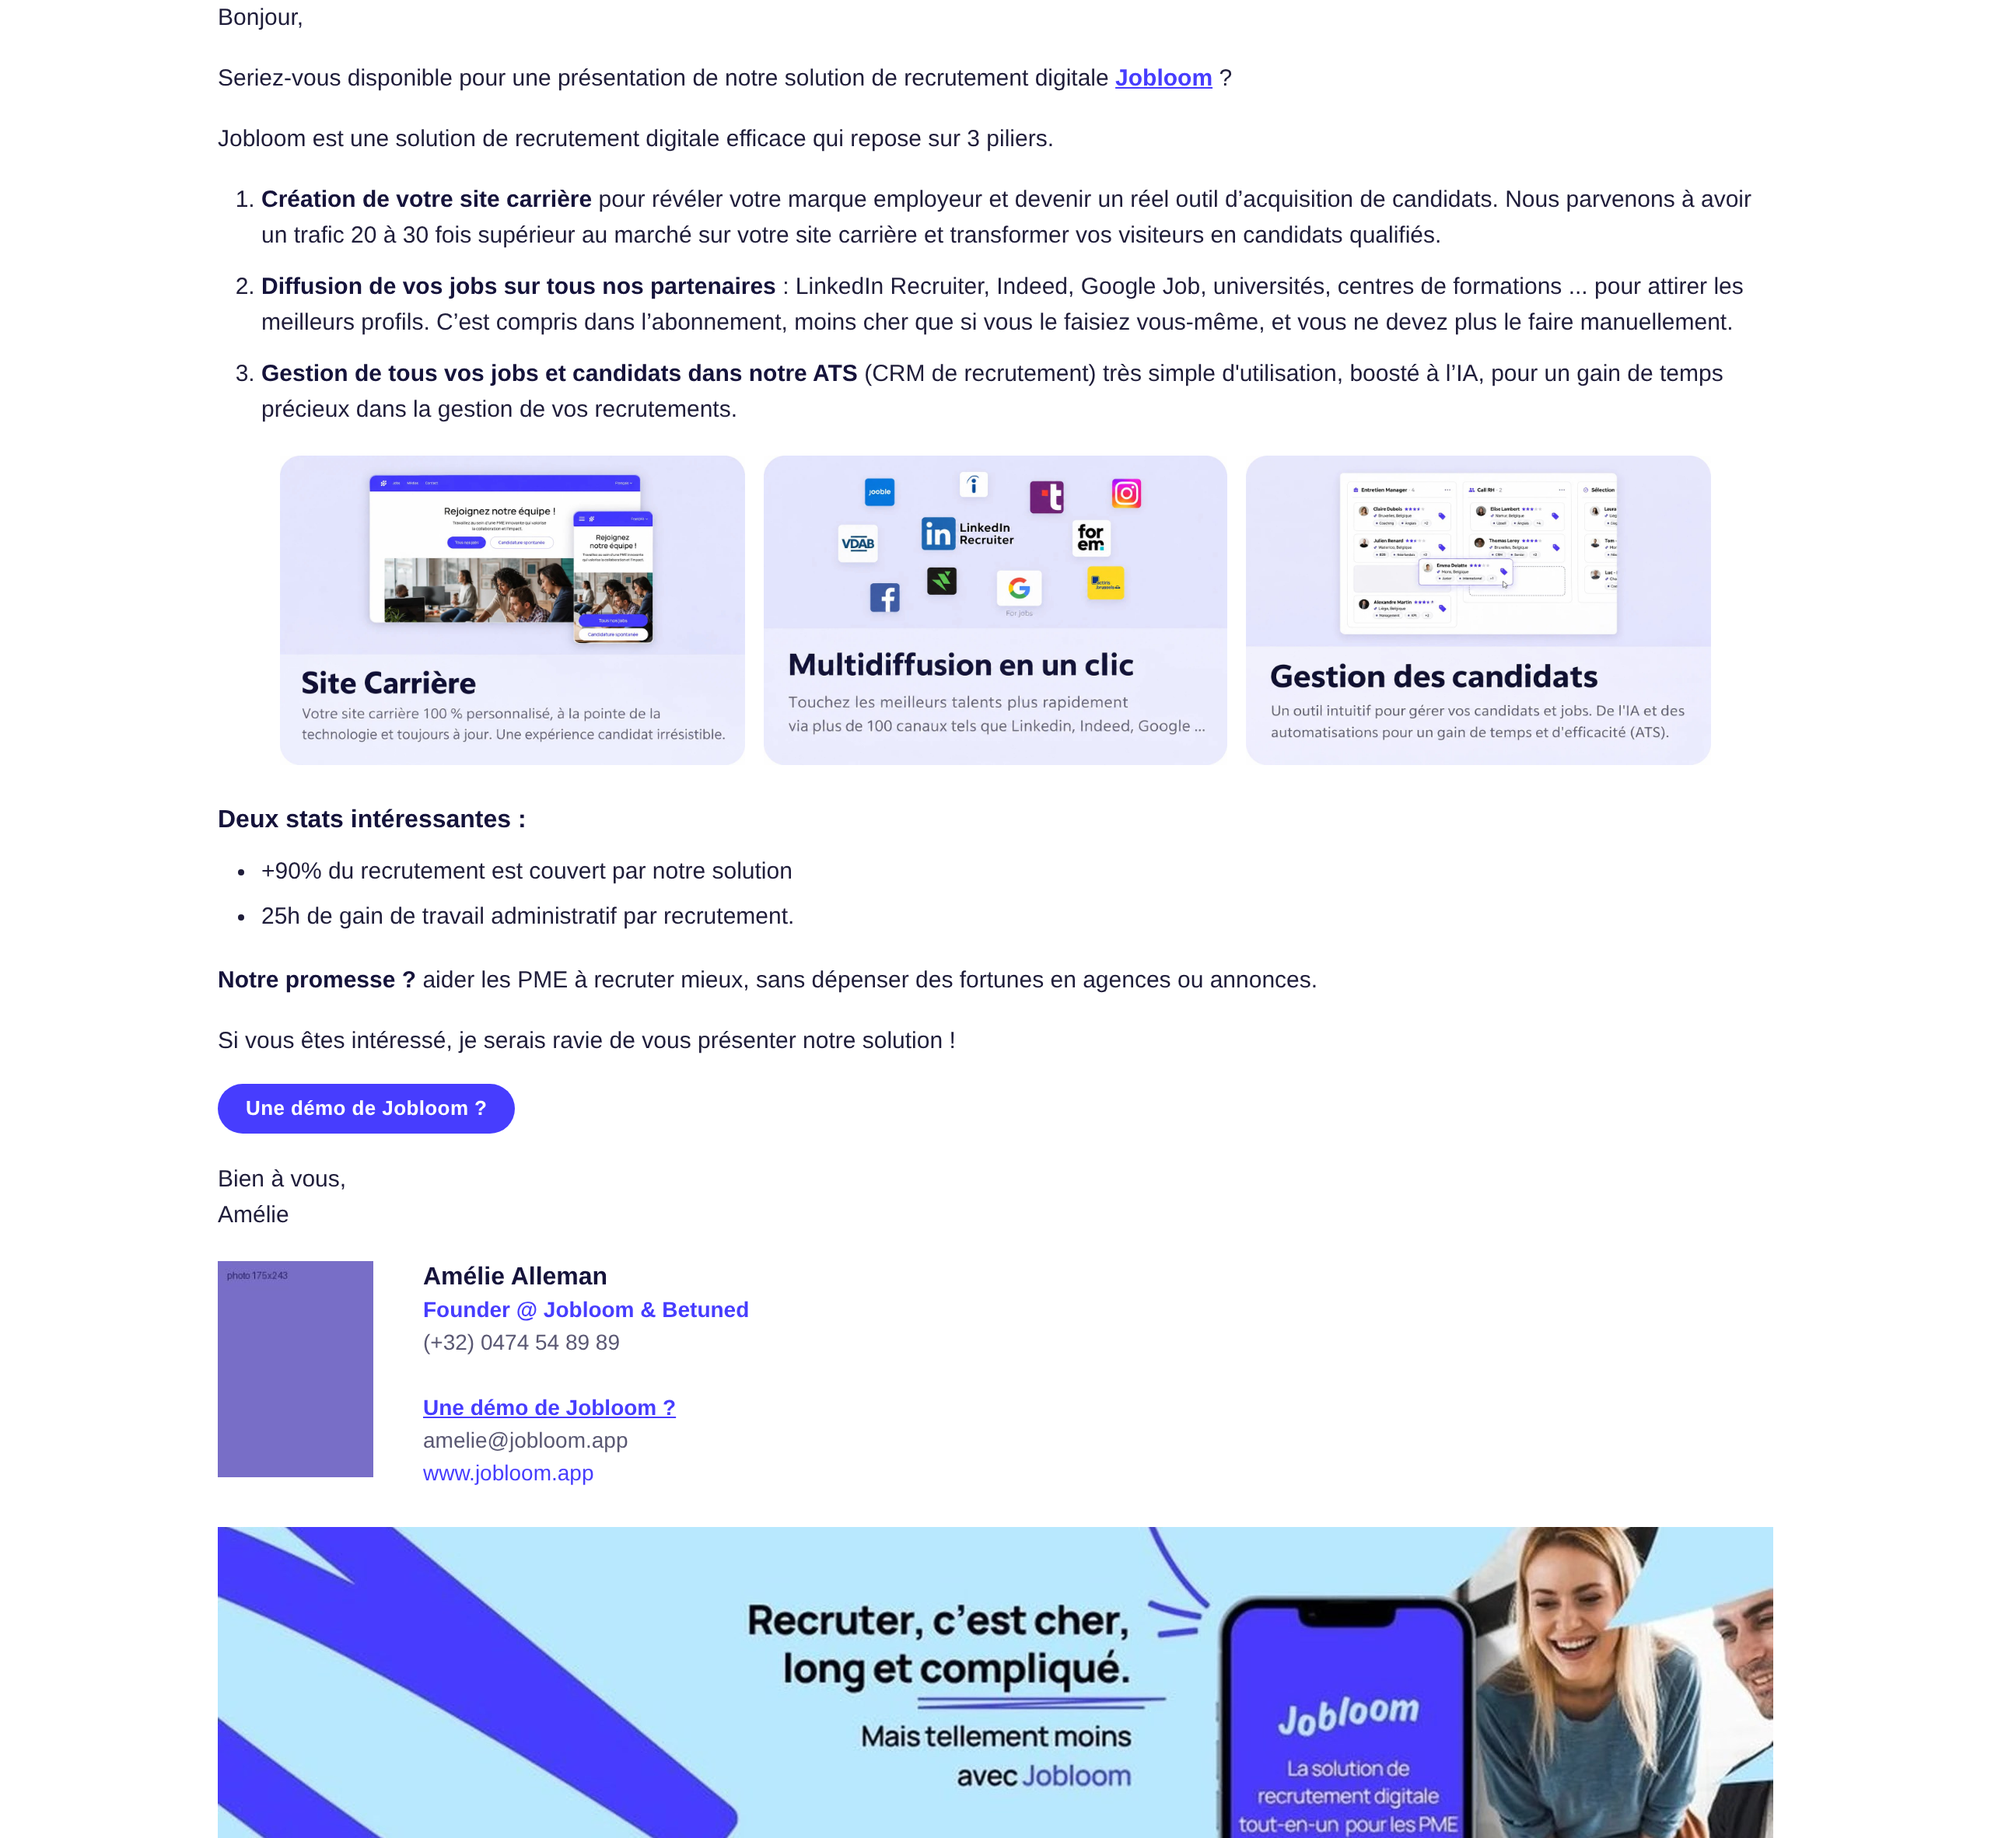
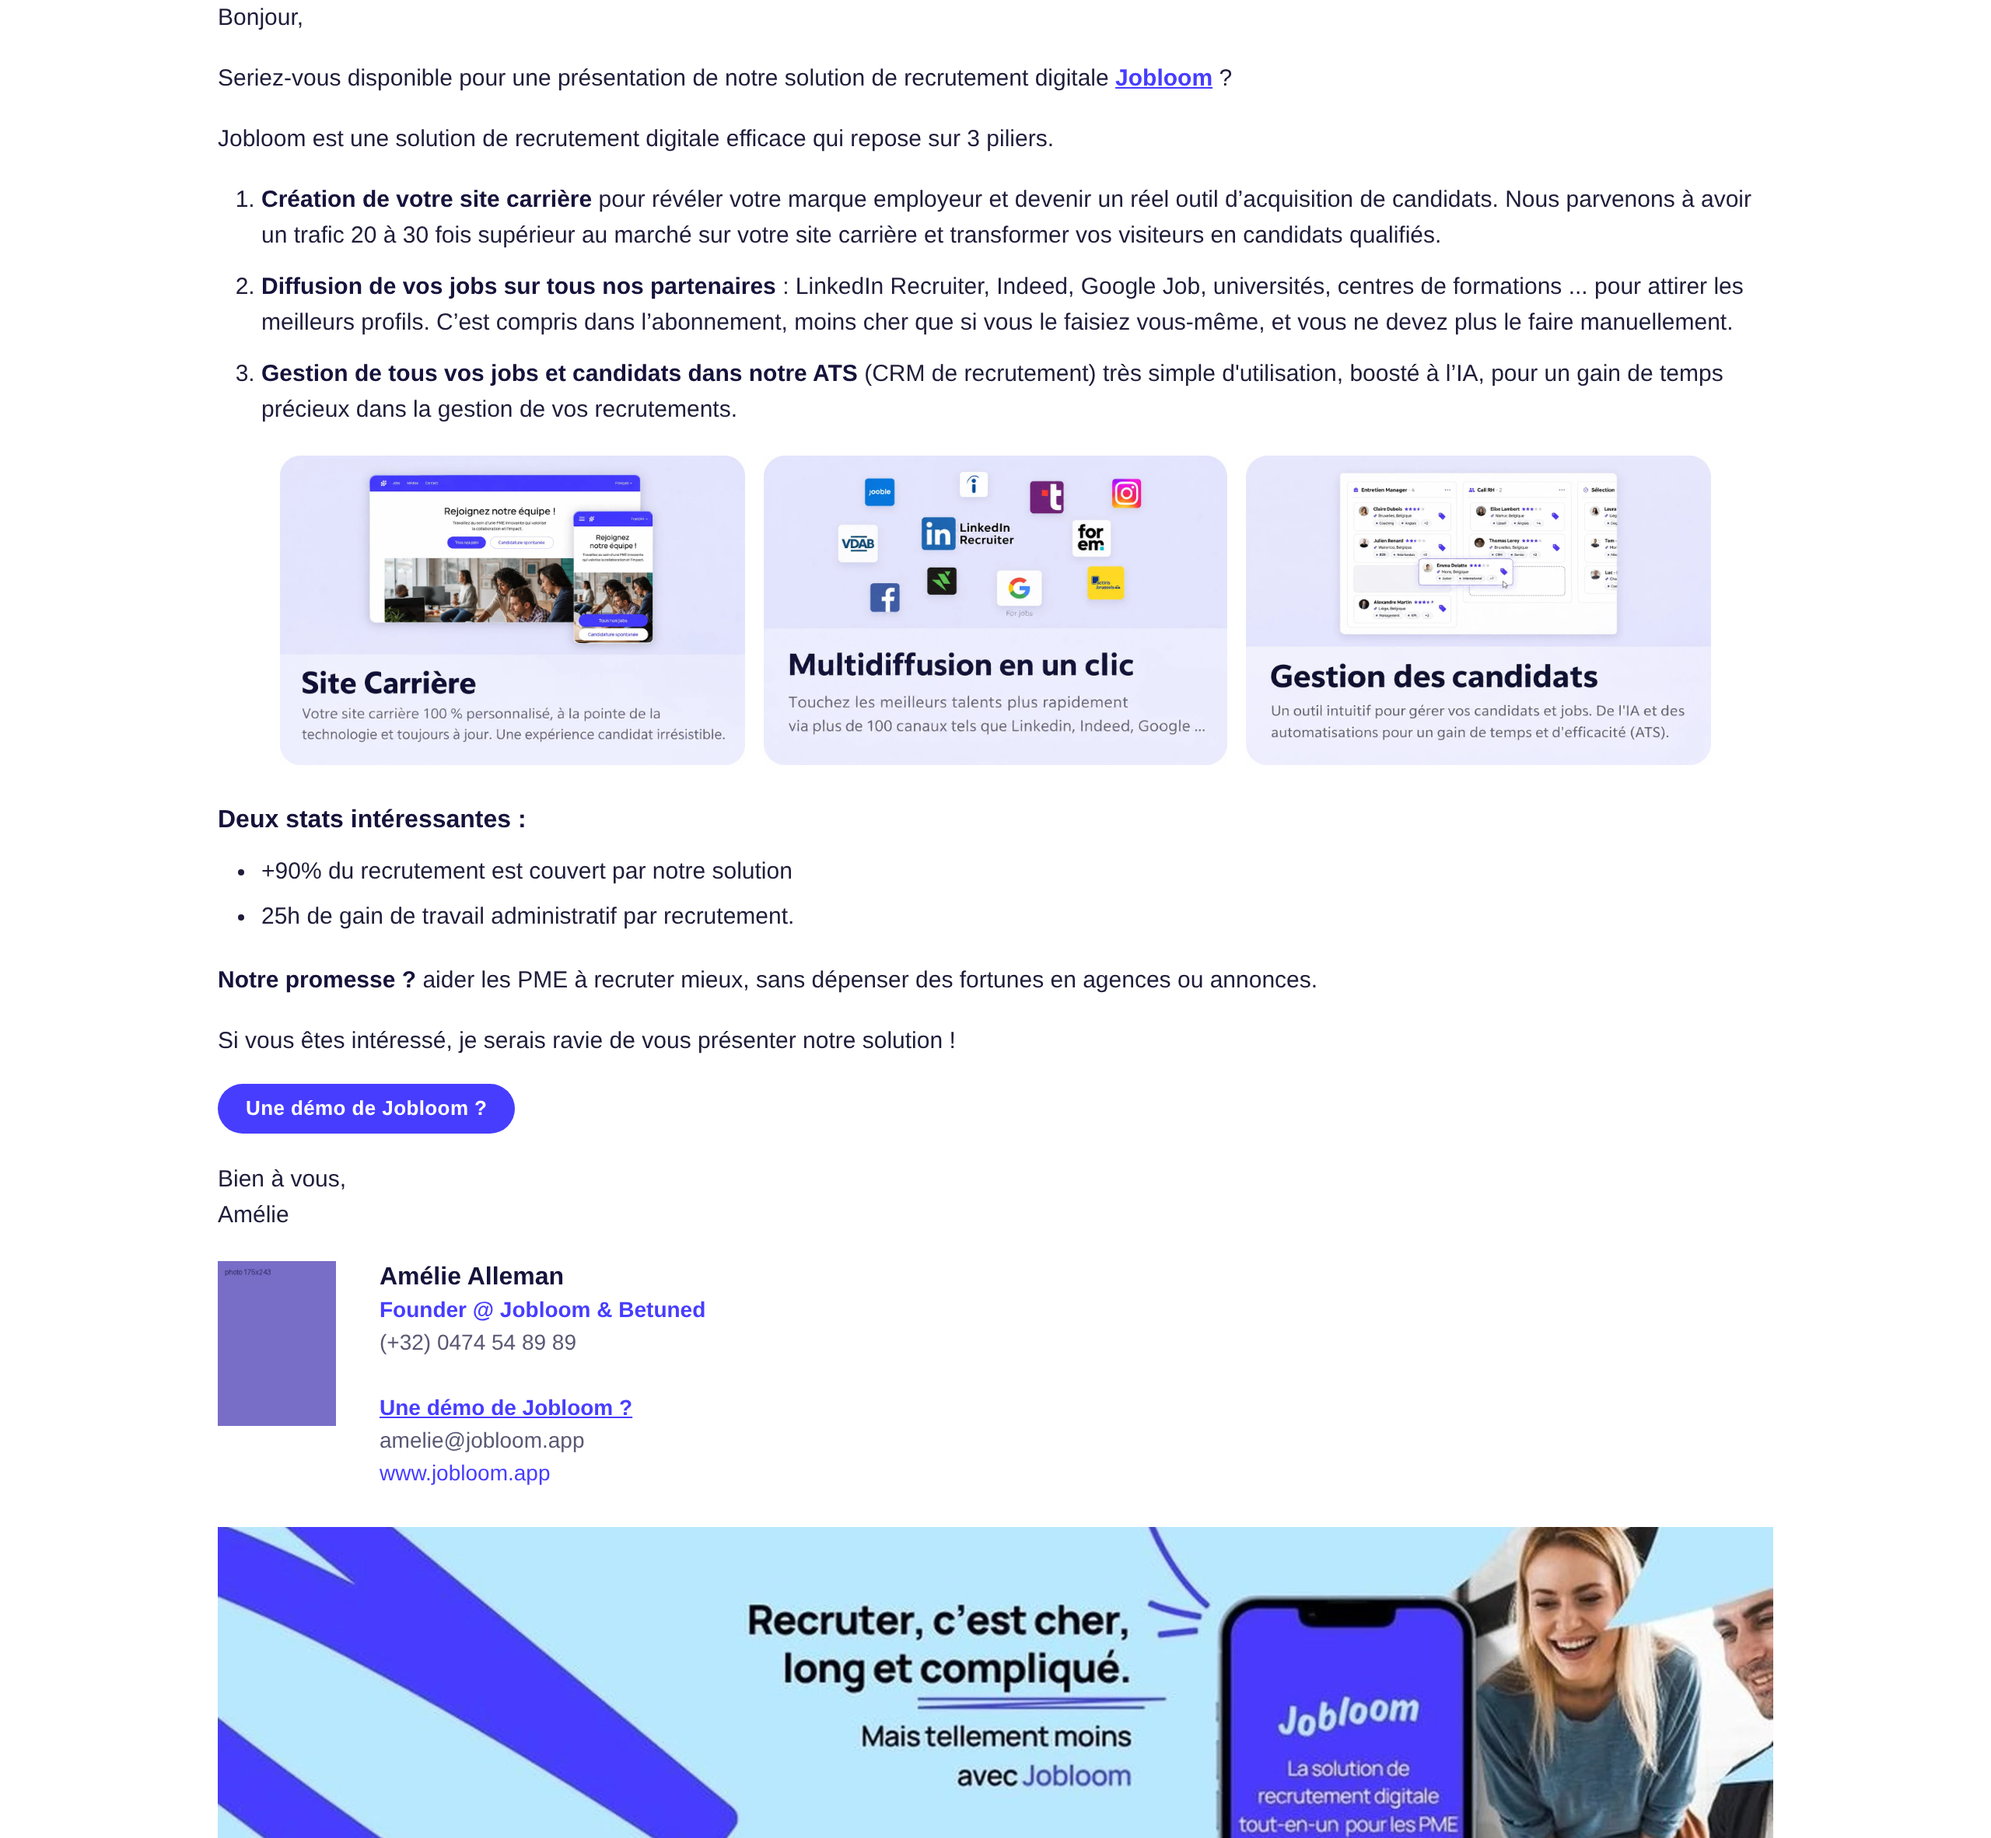
Email Amélie : photo de signature plus petite
Claude-Session: https://claude.ai/code/session_01XTeiUwKp5X2MxE8FSKHjU9

Changed region(s): [[0.0938, 0.6794, 0.375, 0.8029]]

diff --git a/email-livrable/email_1st_Amelie_final.html b/email-livrable/email_1st_Amelie_final.html
@@ -22,8 +22,8 @@ li{margin-left:0 !important;}</style>
   .cards{width:100% !important;}
   .cardtd{padding:0 3px !important;}
   .cardtd img{height:95px !important;}
-  .sig-photo{width:84px !important;padding-right:12px !important;}
-  .sig-img{width:72px !important;height:100px !important;}
+  .sig-photo{width:72px !important;padding-right:12px !important;}
+  .sig-img{width:60px !important;height:83px !important;}
 }
 </style>
 </head>
@@ -63,7 +63,7 @@ li{margin-left:0 !important;}</style>
 
 <table role="presentation" cellpadding="0" cellspacing="0" border="0" style="border-collapse:collapse;font-family:Arial,Helvetica,sans-serif;font-size:14px;line-height:21px;mso-line-height-rule:exactly;color:#5A5873">
 <tr>
-<td class="sig-photo" valign="top" width="116" style="width:116px;padding:0 16px 0 0"><img src="https://jobloom-landing-pages-massimoharnisfeger-hues-projects.vercel.app/signature/amelie-alleman.jpg" width="100" height="139" alt="Amélie Alleman" class="sig-img" style="display:block;width:100px;height:139px;border:0"></td>
+<td class="sig-photo" valign="top" width="90" style="width:90px;padding:0 14px 0 0"><img src="https://jobloom-landing-pages-massimoharnisfeger-hues-projects.vercel.app/signature/amelie-alleman.jpg" width="76" height="106" alt="Amélie Alleman" class="sig-img" style="display:block;width:76px;height:106px;border:0"></td>
 <td valign="top" style="padding:0">
 <b style="font-size:16px;color:#15133B">Amélie Alleman</b><br>
 <span style="color:#473DFE;font-weight:bold">Founder @ Jobloom &amp; Betuned</span><br>
